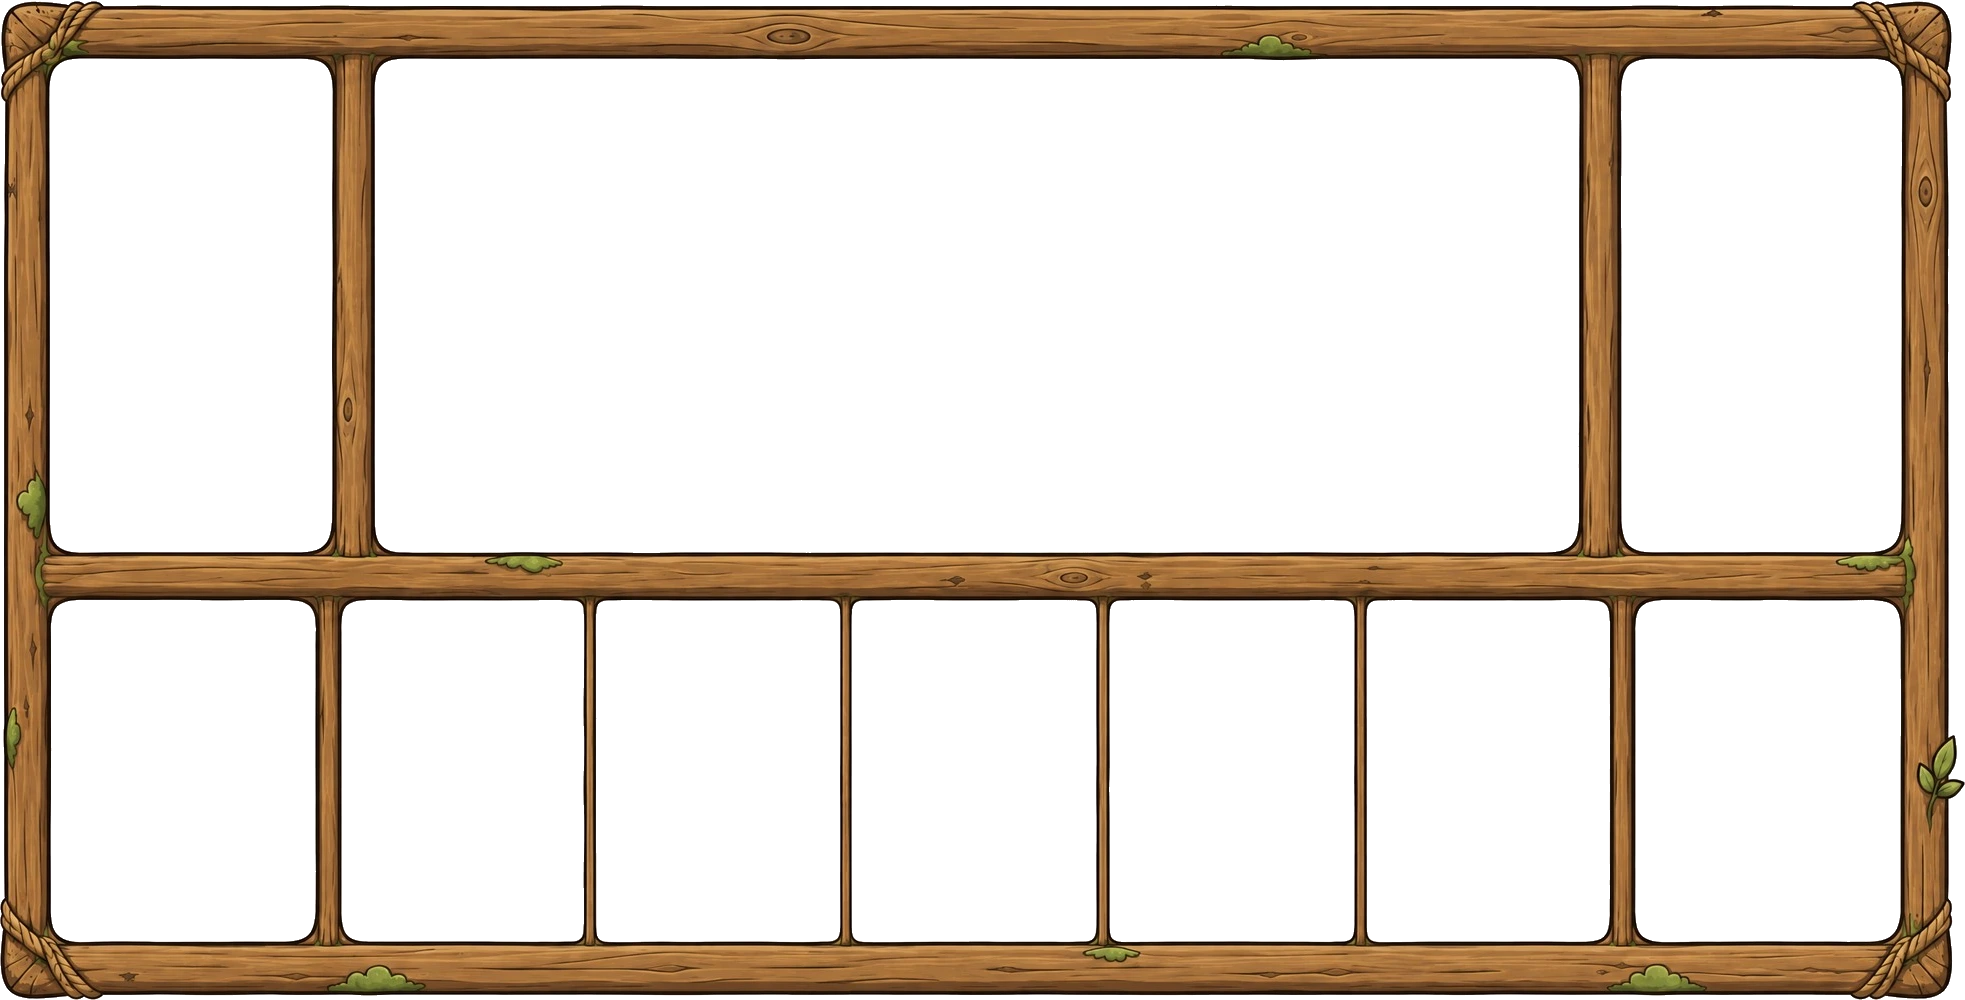
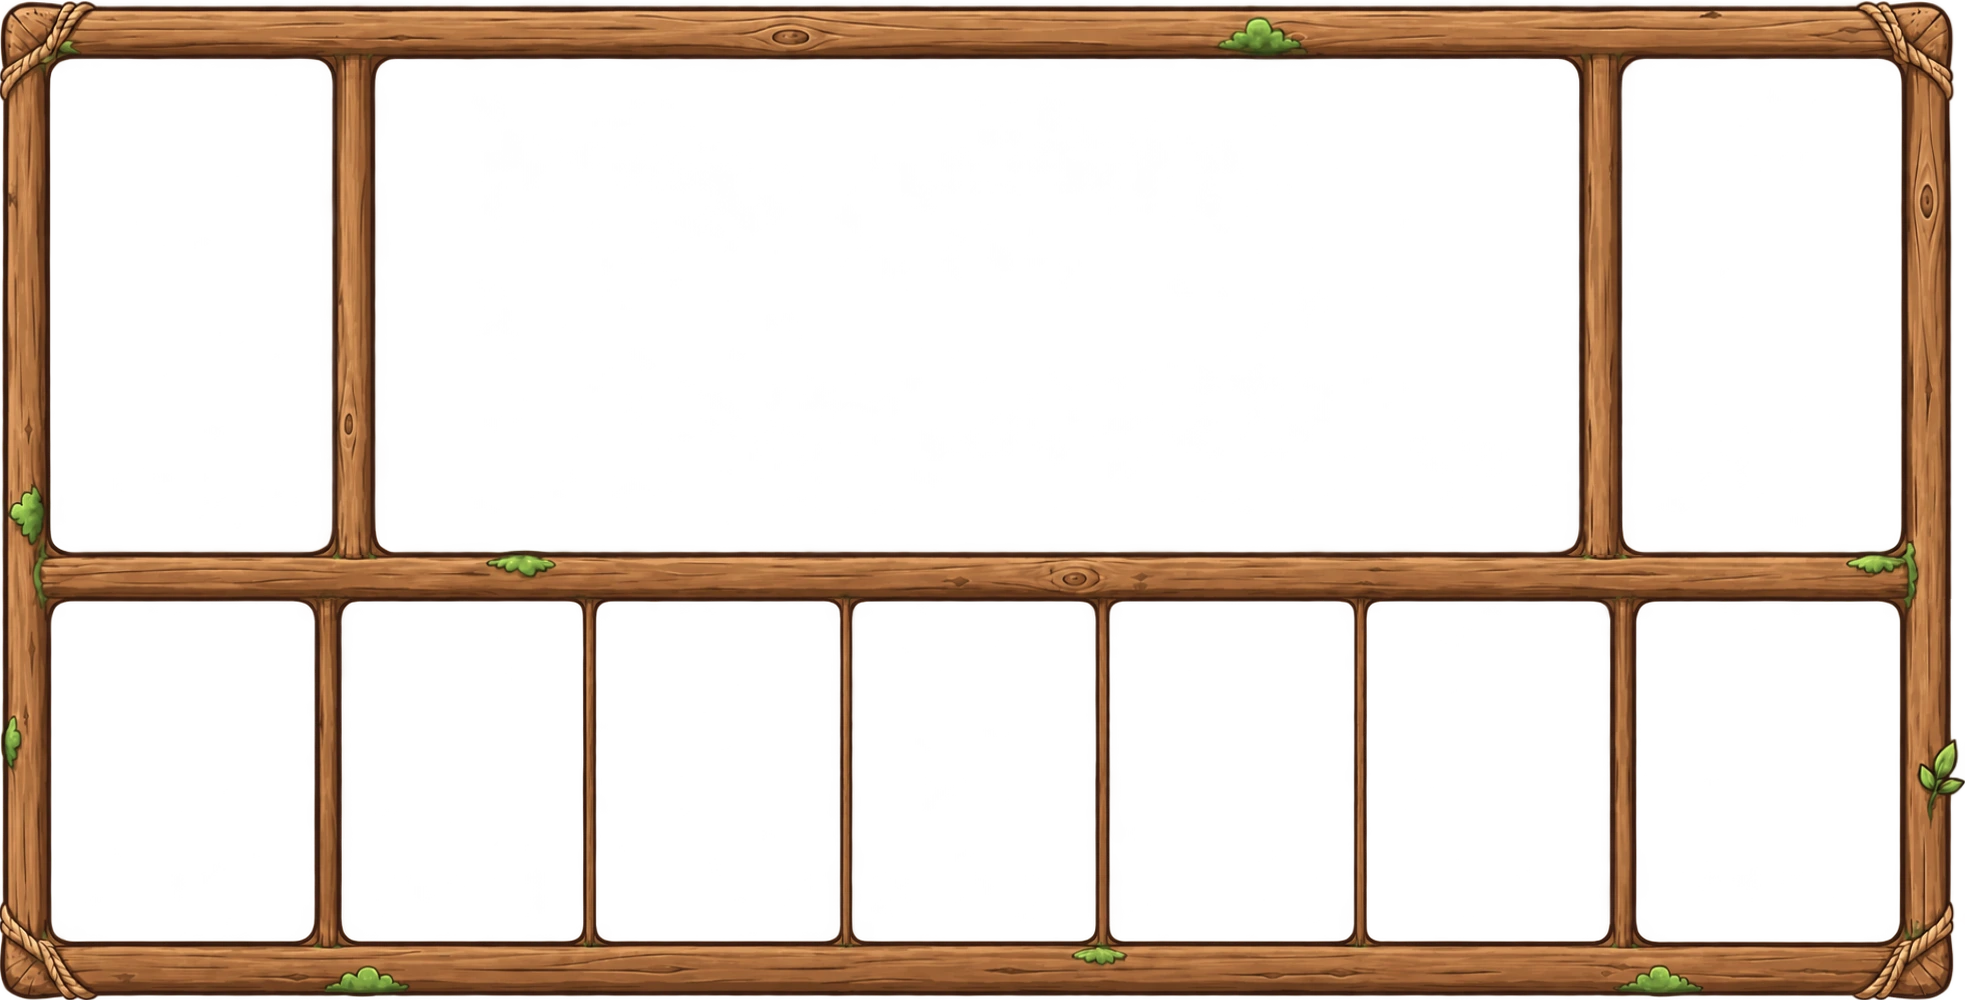
feat: 플레이 화면 액자를 새 그림으로 교체 — 칸 구간만 늘여 예전 칸 좌표에 맞추고 채도를 예전 액자에 맞춤
- scripts/fitPlayFrame.mjs: assets-src/play_frame_v2.png(1700×925) → public/play/play_frame.webp(1965×1000)
  기둥·가로대 기준선을 예전 위치에 맞추고, 칸 모서리와 이끼·옹이는 늘이지 않는다. 채도 0.75배 · 밝기 1.06배
- measurePlay --diff team-before: 움직인 상자 없음(CSS 칸 좌표 그대로)
- cutPlaySheet.mjs는 이 액자를 더 이상 자르지 않는다(새 액자를 덮어쓰지 않게)

Changed region(s): [[0.0, 0.0, 1.0, 1.0]]

diff --git a/client/lib/playAssets.ts b/client/lib/playAssets.ts
@@ -68,9 +68,11 @@ export const PLAY_ASSETS = {
   /**
    * 플레이 화면 **통짜 액자**(1965×1000) — 칸막이까지 그려진 한 장.
    *
-   * 2026-09-18에 새 그림(밧줄 모서리·이끼)으로 갈았다. 원본 `assets-src/play_frame.png`를
-   * **그대로** 자른다 — 좌우 차이가 1~2px뿐이라 `scripts/mirrorPlayFrame.mjs`(왼쪽 절반
-   * 뒤집기)는 돌리지 않았다. 돌리면 오른쪽에만 있는 덩굴이 사라진다.
+   * 2026-09-18에 새 그림(밧줄 모서리·이끼)으로 갈았고, 2026-10-30에 다시 갈았다 — 원본
+   * `assets-src/play_frame_v2.png`(1700×925, 비율이 다르다)를 `scripts/fitPlayFrame.mjs`가
+   * **칸 구간만 늘여** 예전과 같은 1965×1000 · 같은 칸 좌표로 맞추고 채도를 예전 액자에 맞춘다.
+   * 그래서 CSS의 칸 좌표는 그대로다(measurePlay --diff로 "움직인 상자 없음"). 예전 원본
+   * `play_frame.png`는 기록으로만 남아 있다 — cutPlaySheet.mjs는 더 이상 이 액자를 자르지 않는다.
    *
    * 칸 10개(윗줄 3 · 아랫줄 7)의 자리가 그림 안에 이미 정해져 있어, 화면 배치를
    * 정하는 주체가 CSS가 아니라 **이 그림**이다. 칸 좌표는 globals.css의

diff --git a/client/public/play/README.md b/client/public/play/README.md
@@ -7,7 +7,8 @@
 | --- | --- |
 | `master_sheet.png` | 상단 바 · 알약 · 게이지 · 노트 · 화살표 · 장식 (36조각) — **색 보정본**(2560×1339) |
 | `team_pills.png` | 팀 이름표 알약 두 장 (연두·빨강) |
-| `play_frame.png` | 플레이 화면 통짜 액자 — **받은 그림 그대로**(2000×1088, 흰 배경). 칸 10개를 `holes`로 뚫는다. 2026-09-18 교체 — 좌우 차이가 1~2px라 뒤집어 붙이지 않았다 |
+| `play_frame.png` | (예전) 플레이 화면 통짜 액자 — 2026-09-18 ~ 10-30에 썼다. 이제 cutPlaySheet가 자르지 않는다 |
+| `play_frame_v2.png` | 플레이 화면 통짜 액자(2026-10-30 ~) — 1700×925, 알파 있음. `scripts/fitPlayFrame.mjs`가 칸 구간만 늘여 1965×1000 · 예전 칸 좌표에 맞추고 채도를 낮춘다(0.75배 · 밝기 1.06배) |
 | `frames_sheet.png` | **나무 액자 3종 + 양피지 3종** — 가로·정사각·세로 한 벌씩 |
 | `frame_sheet.png` | 양피지(`pg_*`) 여섯 장. 여기 있던 나무테(`wf_*`)·통나무 바는 걷어냈다 |
 | `card_frame_sheet.png` | 기술 카드 금색 액자와 모서리 장식 |
